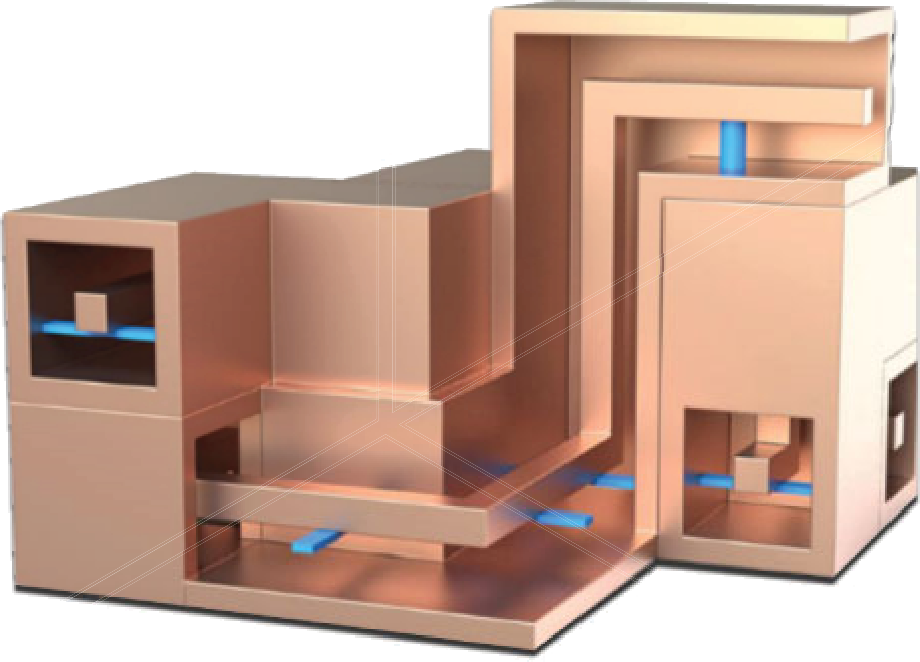
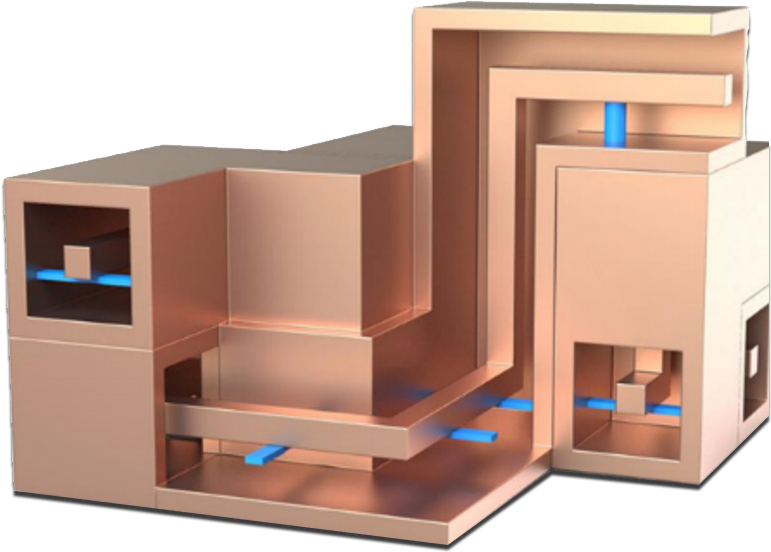
Fix picture in grounding-return-conductors.md

diff --git a/content/posts/2026-11-13-grounding-return-conductors.md b/content/posts/2026-11-13-grounding-return-conductors.md
@@ -27,7 +27,8 @@ In such a setup, the grounding is made by the boxes themselved and by the shield
 
 In addition to the wide scale of the labs, there are also very expensive ways, using modern 3D techniques, to manufacture coaxial cables on a micro scale. In applications where the costs can be afforded, this works definitely very well.
 
-![](grounding-planes-convenience/nuvotronics-coax.png)
+<img class="dark-mode-no-bg" src="grounding-planes-convenience/nuvotronics-coax.png"/>
+
 *Copyright Cubic Nuvotronics, https://www.cubic.com/sites/default/files/2024-05/2023%20Nuvo%20Product%20brochure_R32_PRINT.pdf*
 
 ## Various real-world approximations of coaxial cables
